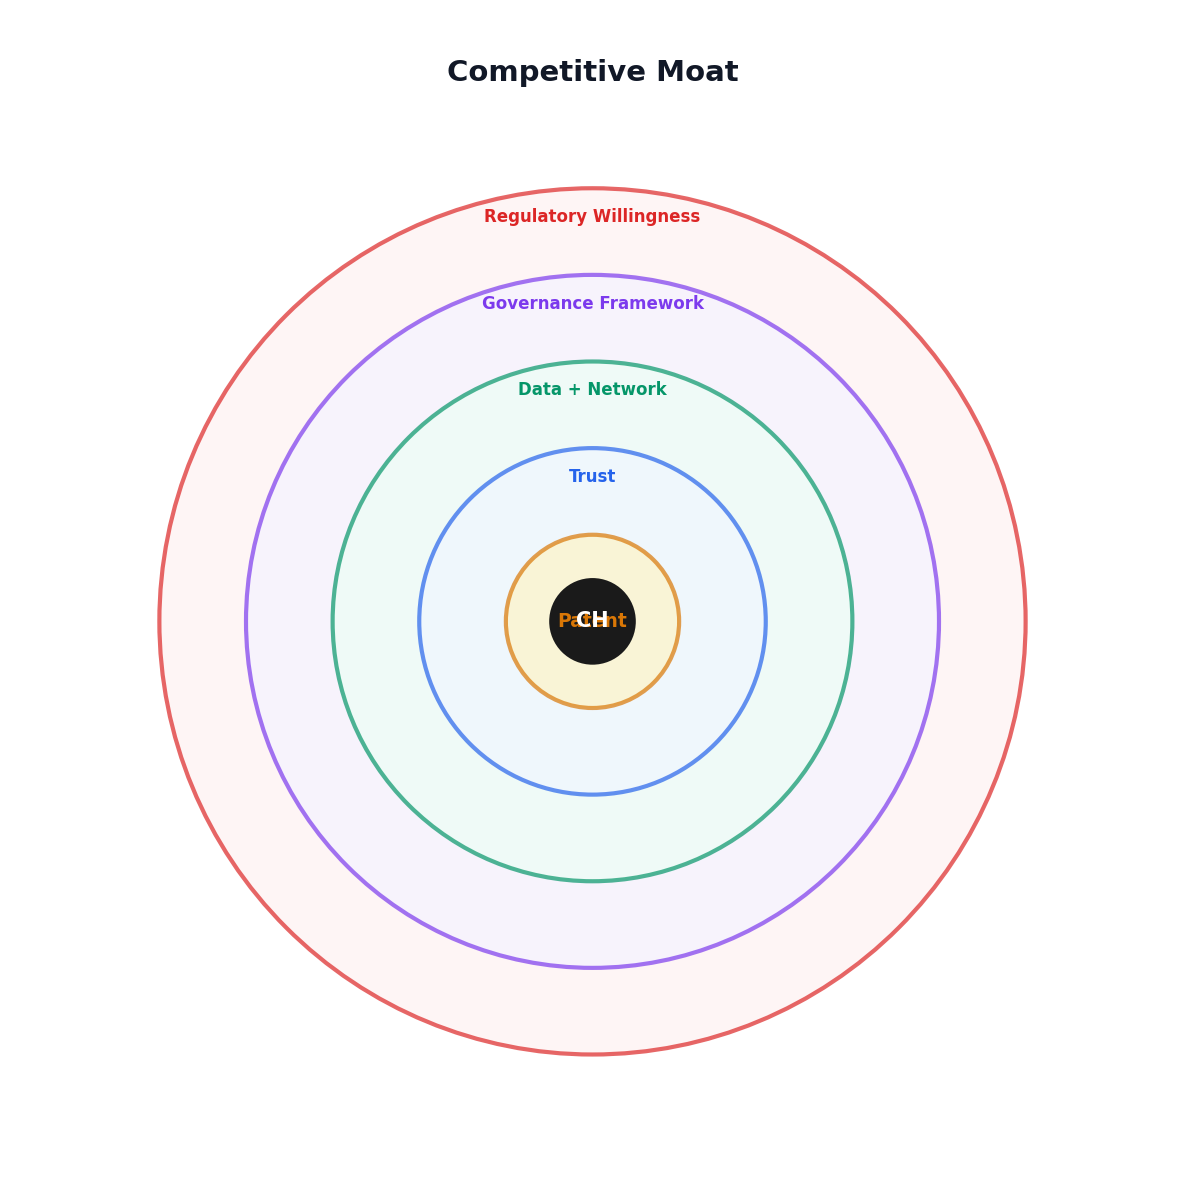
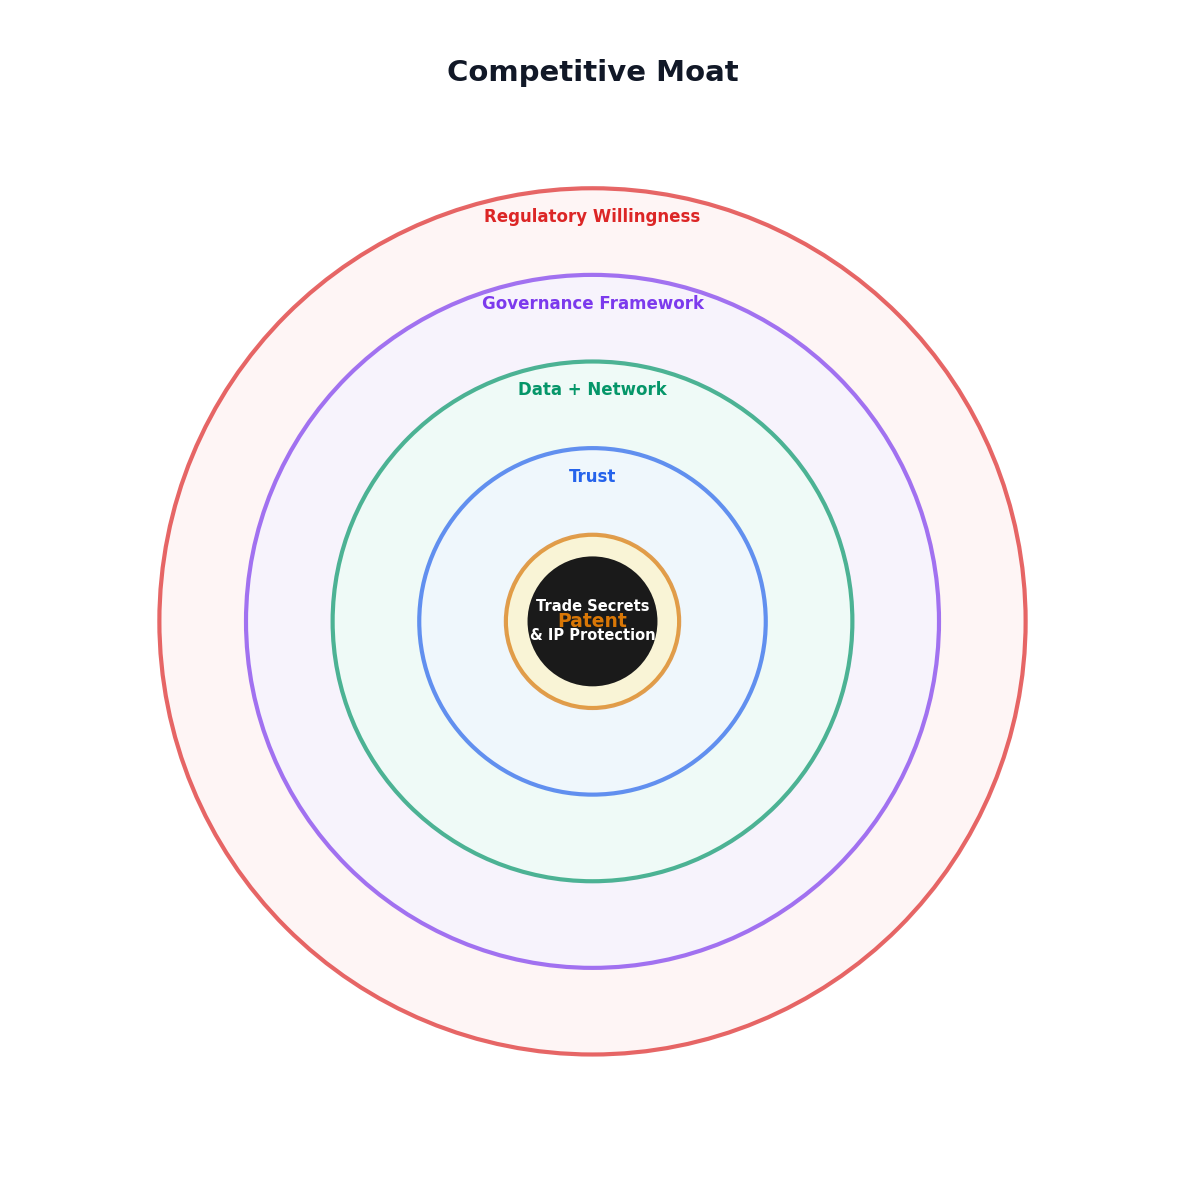
[Unattended] Build 237: Moat diagram — center: Trade Secrets & IP Protection

Changed region(s): [[0.4371, 0.4684, 0.562, 0.5932]]

diff --git a/Code/Shared/ops/brain_biz_arch_diagrams.py b/Code/Shared/ops/brain_biz_arch_diagrams.py
@@ -258,8 +258,9 @@ def generate_moat_diagram(spec):
             ax.text(center[0], center[1] + radius - 0.15, label, ha='center', va='center', fontsize=8, fontweight='bold', color=ec)
 
     # Core
-    ax.add_patch(mpatches.Circle(center, 0.3, facecolor='#1a1a1a', edgecolor='#1a1a1a', linewidth=0))
-    ax.text(center[0], center[1], 'CH', ha='center', va='center', fontsize=10, fontweight='bold', color='white')
+    ax.add_patch(mpatches.Circle(center, 0.45, facecolor='#1a1a1a', edgecolor='#1a1a1a', linewidth=0))
+    ax.text(center[0], center[1] + 0.1, 'Trade Secrets', ha='center', va='center', fontsize=7, fontweight='bold', color='white')
+    ax.text(center[0], center[1] - 0.1, '& IP Protection', ha='center', va='center', fontsize=7, fontweight='bold', color='white')
 
     plt.tight_layout()
     path = str(DIAGRAM_DIR / 'moat_diagram.png')
